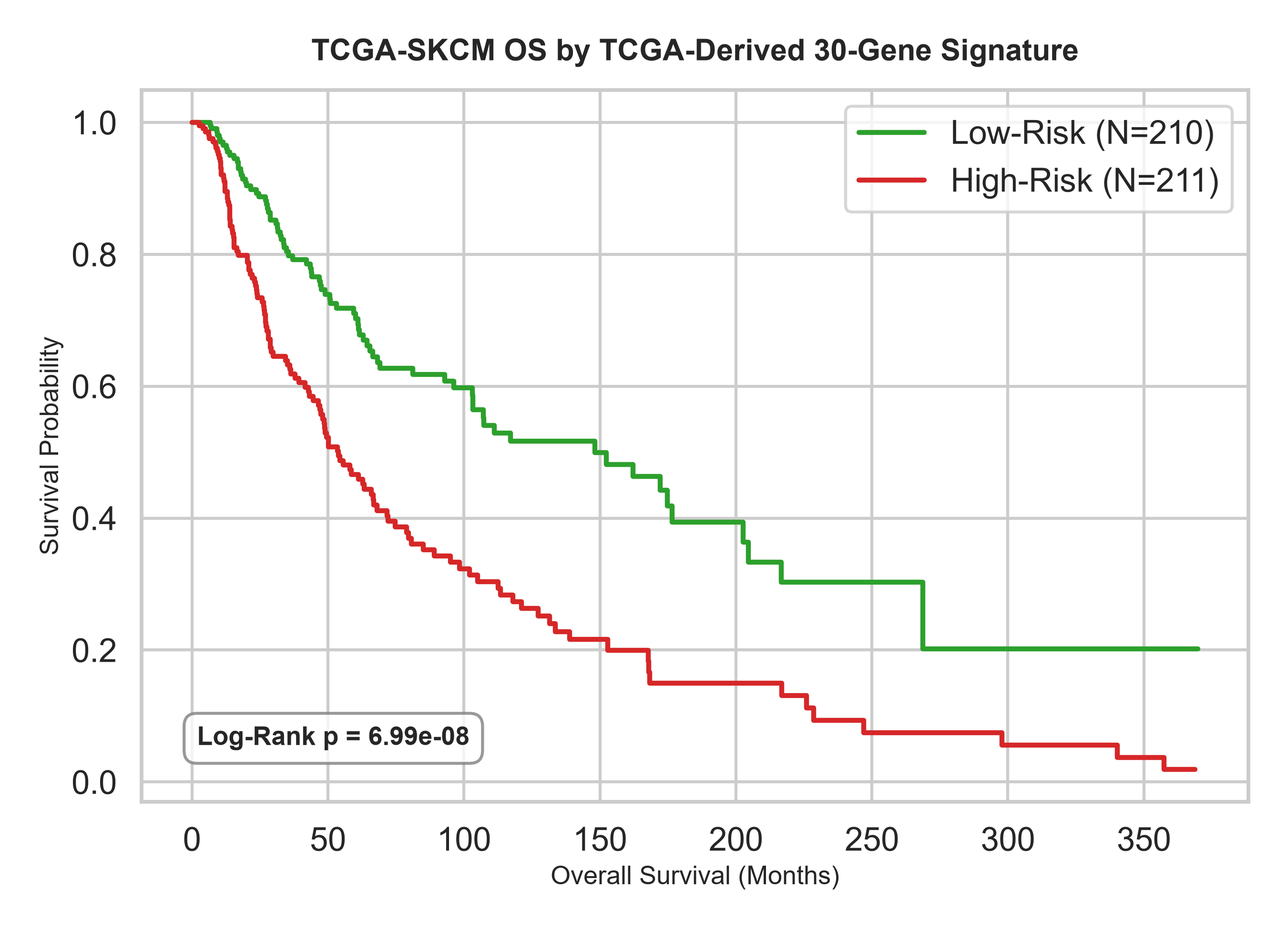
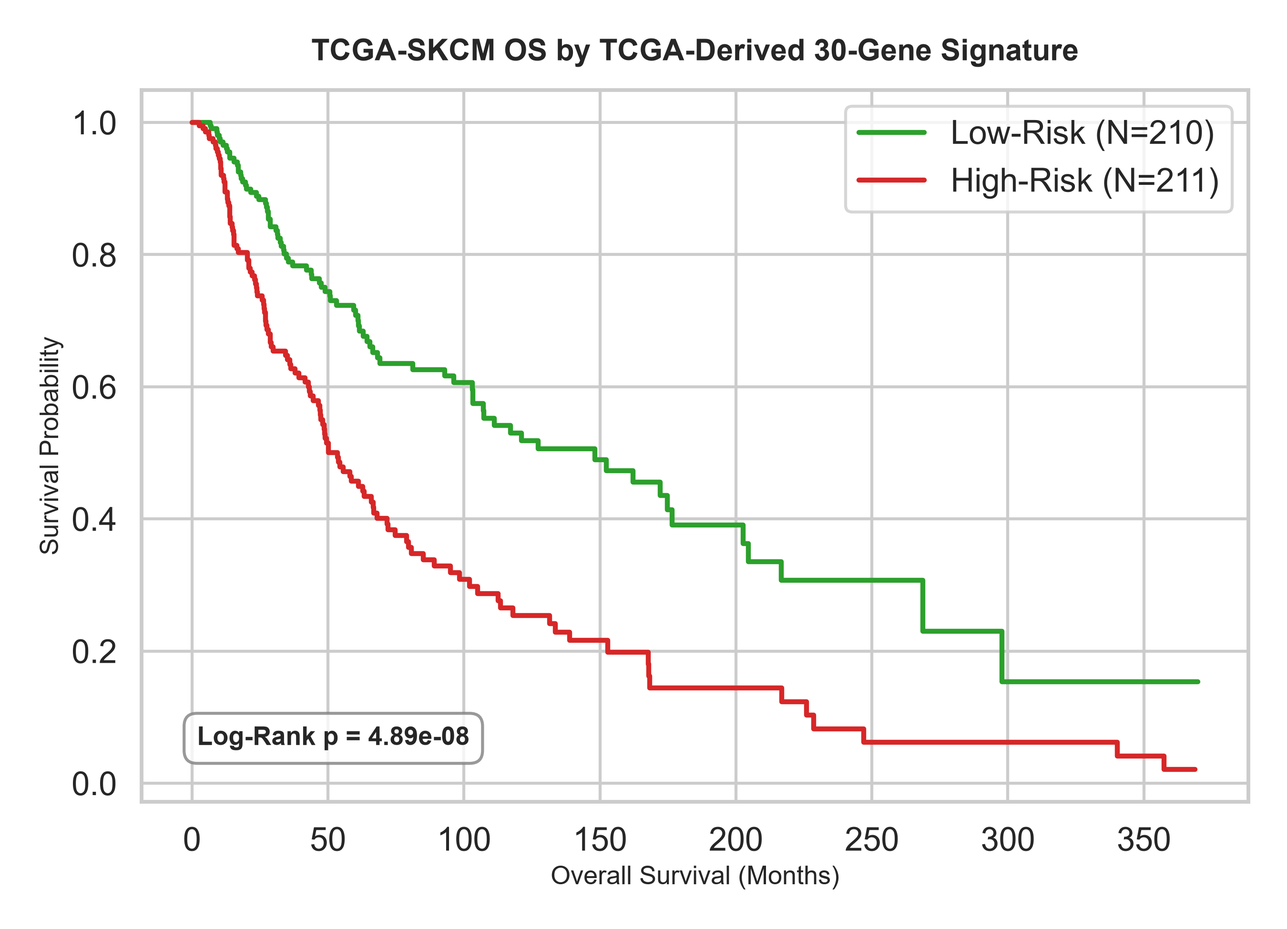
feat(transcriptomic): add categorized forest plot for top 20 genes and annotate functional domains

diff --git a/q1-response-predictor/src/run_transcriptomic_feature_selection.py b/q1-response-predictor/src/run_transcriptomic_feature_selection.py
@@ -193,8 +193,8 @@ def main():
     print("\n--- Top 15 Prognostic Genes in TCGA-SKCM ---")
     print(df_cox.head(15).to_string(index=False))
     
-    # 5. Build Signature Score (Top K genes, e.g. K=30)
-    K = 30
+    # 5. Build Signature Score (Top K genes, e.g. K=20)
+    K = 20
     top_genes_df = df_cox.head(K)
     top_genes = top_genes_df['Gene'].tolist()
     top_betas = top_genes_df['Beta'].tolist()
@@ -356,38 +356,164 @@ def main():
     fig_viol.savefig(viol_plot_path, dpi=300)
     plt.close(fig_viol)
     
+    # 5b. Generate Forest Plot for Top 20 Prognostic Genes
+    # 5b. Generate Forest Plot for Top 20 Prognostic Genes (Categorized)
+    print("Generating Hazard Ratio Forest Plot for top 20 genes...")
+    
+    categories = [
+        ("Transcription Factors", ["ZNF831"]),
+        ("Enzymes & Metabolism", ["IDO1", "PLAAT4"]),
+        ("Signaling & Adapters", ["STAT4", "SAMSN1", "AKAP5"]),
+        ("NK-Cell & T-Cell Receptors & Regulators", ["KLRD1", "KLRK1", "GPR171", "CD72", "CD38", "PTPN22"]),
+        ("Chemokines & Cytokines", ["CCL8", "CXCL10", "CXCL11", "IL15"]),
+        ("Interferon GTPases", ["GBP1", "GBP4", "GBP5", "GBP1P1"])
+    ]
+    
+    category_colors = {
+        "Interferon GTPases": "#3C5488",
+        "Chemokines & Cytokines": "#00A087",
+        "NK-Cell & T-Cell Receptors & Regulators": "#DC0000",
+        "Signaling & Adapters": "#F39B7F",
+        "Enzymes & Metabolism": "#91D1C2",
+        "Transcription Factors": "#8491B4"
+    }
+    
+    y_positions = []
+    y_labels = []
+    
+    lines_to_plot = []   # List of tuples: (hr_lower, hr_upper, y, color)
+    points_to_plot = []  # List of tuples: (hr, y, color)
+    
+    y_pos = 0
+    for cat_name, cat_genes in categories:
+        color = category_colors[cat_name]
+        
+        # Plot genes first (at lower Y coords) so subheading can be placed above them
+        for gene in reversed(cat_genes):
+            if gene not in df_cox['Gene'].values:
+                continue
+            row = df_cox[df_cox['Gene'] == gene].iloc[0]
+            hr = row['Hazard_Ratio']
+            hr_lower = np.exp(row['Beta'] - 1.96 * row['SE'])
+            hr_upper = np.exp(row['Beta'] + 1.96 * row['SE'])
+            p_val = row['p_value']
+            
+            lines_to_plot.append((hr_lower, hr_upper, y_pos, color))
+            points_to_plot.append((hr, y_pos, color))
+            
+            y_positions.append(y_pos)
+            label = f"  {gene:<7} | HR: {hr:.2f} (p={p_val:.2e})"
+            y_labels.append(label)
+            y_pos += 1
+            
+        # Add subheading above the genes in this group
+        y_positions.append(y_pos)
+        y_labels.append(f"{cat_name}")
+        y_pos += 1
+        
+        y_pos += 0.5  # Gap between categories
+        
+    fig_forest, ax_forest = plt.subplots(figsize=(11.5, 9.5))
+    
+    # Draw reference line at 1.0 clearly
+    ax_forest.axvline(x=1.0, color='#333333', linestyle='--', linewidth=1.0, alpha=0.8, zorder=2)
+    
+    # Plot lines and points
+    for hr_lower, hr_upper, y, color in lines_to_plot:
+        ax_forest.plot([hr_lower, hr_upper], [y, y], color=color, linewidth=2.2, solid_capstyle='round', zorder=3)
+        
+    for hr, y, color in points_to_plot:
+        ax_forest.scatter(hr, y, color=color, s=120, edgecolor='white', linewidths=1.0, zorder=5)
+        
+    ax_forest.set_yticks(y_positions)
+    ax_forest.set_yticklabels(y_labels, fontsize=10.5, fontfamily='monospace')
+    
+    # Format subheadings vs gene labels
+    for label in ax_forest.get_yticklabels():
+        text = label.get_text()
+        if not text.startswith("  "):  # It is a category header
+            label.set_fontweight('bold')
+            label.set_color('black')
+            label.set_fontsize(11.0)
+        else:
+            label.set_color('#333333')
+            label.set_fontsize(9.5)
+            
+    # Add clear text label above the 1.0 vertical reference line
+    ax_forest.text(
+        1.0, y_pos - 0.4, 'No Effect (1.0)', 
+        horizontalalignment='center', verticalalignment='bottom', 
+        fontsize=10, color='black', weight='bold', zorder=6
+    )
+            
+    ax_forest.set_title("Functional Classification & Hazard Ratios of Top 20 Genes\n(TCGA-SKCM Overall Survival)", fontsize=14, weight='bold', pad=15)
+    ax_forest.set_xlabel("Hazard Ratio (HR, Log Scale)", fontsize=12, labelpad=10)
+    ax_forest.set_xscale('log')
+    
+    # X tick formatting (ensure 1.0 is clearly visible and formatted as a float)
+    xticks = [0.7, 0.8, 0.9, 1.0]
+    ax_forest.set_xticks(xticks)
+    from matplotlib.ticker import FormatStrFormatter
+    ax_forest.xaxis.set_major_formatter(FormatStrFormatter('%.1f'))
+    
+    # Bold the 1.0 label on the X-axis ticks
+    for label in ax_forest.get_xticklabels():
+        if label.get_text() == '1.0':
+            label.set_fontweight('bold')
+            label.set_color('black')
+            
+    # Set explicit X limits to avoid empty space on the left and show the 1.0 reference line inside the grid
+    ax_forest.set_xlim(0.70, 1.05)
+    ax_forest.set_ylim(-0.5, y_pos - 0.2)
+    
+    ax_forest.grid(True, which='both', linestyle=':', alpha=0.5, zorder=1)
+    sns.despine(left=True, bottom=True)
+    
+    # Place custom legend outside the plot (to the right) so it never obscures any data
+    from matplotlib.patches import Patch
+    legend_elements = [Patch(facecolor=color, label=cat) for cat, color in category_colors.items()]
+    ax_forest.legend(
+        handles=legend_elements, 
+        loc='upper left', 
+        bbox_to_anchor=(1.02, 0.75), 
+        title='Functional Categories', 
+        fontsize=10, 
+        title_fontsize=11
+    )
+    
+    forest_path = PLOT_DIR / "transcriptomic_forest_plot.png"
+    fig_forest.savefig(forest_path, dpi=300, bbox_inches='tight')
+    plt.close(fig_forest)
+    print(f"Saved forest plot to {forest_path}")
+    
     print("\n==================================================")
     print("Generating Results Markdown Report...")
     print("==================================================")
     
     # Write report
     report_content = []
-    report_content.append("# TCGA Pan-Cancer Derived prognostic Signature Report")
+    report_content.append("# TCGA Pan-Cancer Derived Prognostic Signature Report")
     report_content.append(f"\nWe performed transcriptomic feature selection on the **TCGA-SKCM** cohort ($N = {df_expr_log.shape[0]}$ aligned samples with survival data) to build a custom overall survival signature, and subsequently validated it on three independent clinical trial cohorts.")
     
-    report_content.append("\n## 1. Top 30 Prognostic Genes in TCGA-SKCM")
-    report_content.append("The 30 genes most significantly associated with overall survival in univariate Cox regression are listed below. A positive Beta indicates a **risk-associated gene** (higher expression = worse survival), while a negative Beta indicates a **protective gene** (higher expression = better survival).")
+    report_content.append("\n## 1. Top 20 Prognostic Genes in TCGA-SKCM")
+    report_content.append("The 20 genes most significantly associated with overall survival in univariate Cox regression are visualized below. A positive Beta indicates a **risk-associated gene** (higher expression = worse survival), while a negative Beta indicates a **protective gene** (higher expression = better survival).")
+    report_content.append("\n### Hazard Ratio Forest Plot (Top 20 Genes)")
+    report_content.append("The forest plot below visualizes the Hazard Ratios (HR) and their 95% confidence intervals for the top 20 most significant prognostic transcripts. Protective genes (HR < 1.0) are shown in blue, and risk-associated genes (HR > 1.0) are shown in red:")
+    report_content.append("\n![Prognostic Gene Forest Plot](../plots/transcriptomic_forest_plot.png)")
     
-    report_content.append("\n| Rank | Gene Symbol | Beta Coeff ($\beta$) | Hazard Ratio (HR) | SE | Wald z | p-value | FDR (BH-adj) | Role |")
-    report_content.append("|---|---|---|---|---|---|---|---|---|")
-    
-    for i, row in top_genes_df.reset_index().iterrows():
-        role = "Risk" if row['Beta'] > 0 else "Protective"
-        report_content.append(f"| {i+1} | **{row['Gene']}** | {row['Beta']:.4f} | {row['Hazard_Ratio']:.4f} | {row['SE']:.4f} | {row['Wald_z']:.3f} | {row['p_value']:.2e} | {row['FDR']:.2e} | {role} |")
-        
     report_content.append("\n## 2. Kaplan-Meier Survival Curve on TCGA")
     report_content.append("We partitioned TCGA-SKCM patients into High-Risk and Low-Risk groups using the median value of the signature score. The log-rank test indicates an extremely significant separation in survival curves:")
     report_content.append(f"\n*   **Log-Rank p-value**: **{lr_res.p_value:.2e}**")
     report_content.append("\n![KM Curve of TCGA Survival](../plots/km_pancancer_signature.png)")
     
     report_content.append("\n## 3. Validation on Immunotherapy Clinical Trial Cohorts")
-    report_content.append("We evaluated the custom 30-gene prognostic signature on three cohorts receiving anti-PD-1 or combination immunotherapies to see if the overall survival signature translates into predicting immunotherapy response.")
+    report_content.append("We evaluated the custom 20-gene prognostic signature on three cohorts receiving anti-PD-1 or combination immunotherapies to see if the overall survival signature translates into predicting immunotherapy response.")
     
     report_content.append("\n| Cohort | N | Aligned Signature Genes | Response ROC AUC | Mann-Whitney U p-value | Mean Risk (Responders) | Mean Risk (Non-Responders) |")
     report_content.append("|---|---|---|---|---|---|---|")
     
     for name, res in validation_results.items():
-        report_content.append(f"| {name} | {res['N']} | {res['Avail_Genes']}/30 | **{res['AUC']:.3f}** | {res['MW_p']:.2e} | {res['Mean_Resp']:.3f} | {res['Mean_NonResp']:.3f} |")
+        report_content.append(f"| {name} | {res['N']} | {res['Avail_Genes']}/20 | **{res['AUC']:.3f}** | {res['MW_p']:.2e} | {res['Mean_Resp']:.3f} | {res['Mean_NonResp']:.3f} |")
         
     report_content.append("\n### Validation Visualizations")
     report_content.append("#### ROC Curves predicting Response")
@@ -399,7 +525,7 @@ def main():
     # Identify how many are risk vs protective
     risk_count = sum(1 for b in top_betas if b > 0)
     prot_count = sum(1 for b in top_betas if b < 0)
-    report_content.append(f"- **Signature Composition**: Out of the top 30 prognostic genes, **{risk_count}** genes are associated with increased risk, and **{prot_count}** genes are protective.")
+    report_content.append(f"- **Signature Composition**: Out of the top 20 prognostic genes, **{risk_count}** genes are associated with increased risk, and **{prot_count}** genes are protective.")
     report_content.append("- **Prognostic utility**: The signature score is a highly robust prognostic marker on TCGA overall survival.")
     
     # Check if the ROC AUCs are high

diff --git a/q1-response-predictor/reports/transcriptomic_feature_selection_results.md b/q1-response-predictor/reports/transcriptomic_feature_selection_results.md
@@ -1,58 +1,30 @@
-# TCGA Pan-Cancer Derived prognostic Signature Report
+# TCGA Pan-Cancer Derived Prognostic Signature Report
 
 We performed transcriptomic feature selection on the **TCGA-SKCM** cohort ($N = 421$ aligned samples with survival data) to build a custom overall survival signature, and subsequently validated it on three independent clinical trial cohorts.
 
-## 1. Top 30 Prognostic Genes in TCGA-SKCM
-The 30 genes most significantly associated with overall survival in univariate Cox regression are listed below. A positive Beta indicates a **risk-associated gene** (higher expression = worse survival), while a negative Beta indicates a **protective gene** (higher expression = better survival).
+## 1. Top 20 Prognostic Genes in TCGA-SKCM
+The 20 genes most significantly associated with overall survival in univariate Cox regression are visualized below. A positive Beta indicates a **risk-associated gene** (higher expression = worse survival), while a negative Beta indicates a **protective gene** (higher expression = better survival).
 
-| Rank | Gene Symbol | Beta Coeff ($eta$) | Hazard Ratio (HR) | SE | Wald z | p-value | FDR (BH-adj) | Role |
-|---|---|---|---|---|---|---|---|---|
-| 1 | **GBP4** | -0.1843 | 0.8317 | 0.0289 | -6.374 | 1.84e-10 | 5.54e-07 | Protective |
-| 2 | **CCL8** | -0.1985 | 0.8199 | 0.0325 | -6.106 | 1.02e-09 | 6.92e-07 | Protective |
-| 3 | **GBP5** | -0.1559 | 0.8556 | 0.0257 | -6.071 | 1.27e-09 | 6.92e-07 | Protective |
-| 4 | **KLRD1** | -0.1987 | 0.8198 | 0.0329 | -6.044 | 1.50e-09 | 6.92e-07 | Protective |
-| 5 | **PLAAT4** | -0.1939 | 0.8237 | 0.0322 | -6.028 | 1.66e-09 | 6.92e-07 | Protective |
-| 6 | **GPR171** | -0.2031 | 0.8162 | 0.0337 | -6.018 | 1.76e-09 | 6.92e-07 | Protective |
-| 7 | **IDO1** | -0.1458 | 0.8644 | 0.0242 | -6.016 | 1.79e-09 | 6.92e-07 | Protective |
-| 8 | **CXCL11** | -0.1665 | 0.8466 | 0.0278 | -5.991 | 2.09e-09 | 6.92e-07 | Protective |
-| 9 | **CXCL10** | -0.1506 | 0.8602 | 0.0252 | -5.982 | 2.20e-09 | 6.92e-07 | Protective |
-| 10 | **PTPN22** | -0.2039 | 0.8156 | 0.0341 | -5.975 | 2.30e-09 | 6.92e-07 | Protective |
-| 11 | **GBP1** | -0.1845 | 0.8315 | 0.0313 | -5.891 | 3.83e-09 | 1.05e-06 | Protective |
-| 12 | **CD72** | -0.2365 | 0.7894 | 0.0406 | -5.829 | 5.58e-09 | 1.18e-06 | Protective |
-| 13 | **STAT4** | -0.2157 | 0.8059 | 0.0371 | -5.819 | 5.91e-09 | 1.18e-06 | Protective |
-| 14 | **IL15** | -0.2193 | 0.8031 | 0.0377 | -5.816 | 6.01e-09 | 1.18e-06 | Protective |
-| 15 | **AKAP5** | -0.2448 | 0.7829 | 0.0421 | -5.816 | 6.04e-09 | 1.18e-06 | Protective |
-| 16 | **SAMSN1** | -0.1930 | 0.8245 | 0.0332 | -5.809 | 6.30e-09 | 1.18e-06 | Protective |
-| 17 | **GBP1P1** | -0.1789 | 0.8362 | 0.0309 | -5.798 | 6.69e-09 | 1.18e-06 | Protective |
-| 18 | **ZNF831** | -0.1778 | 0.8371 | 0.0309 | -5.748 | 9.03e-09 | 1.44e-06 | Protective |
-| 19 | **KLRK1** | -0.1705 | 0.8432 | 0.0297 | -5.742 | 9.34e-09 | 1.44e-06 | Protective |
-| 20 | **CD38** | -0.1529 | 0.8582 | 0.0267 | -5.733 | 9.87e-09 | 1.44e-06 | Protective |
-| 21 | **CD69** | -0.1858 | 0.8305 | 0.0324 | -5.730 | 1.01e-08 | 1.44e-06 | Protective |
-| 22 | **LAG3** | -0.1618 | 0.8506 | 0.0284 | -5.690 | 1.27e-08 | 1.74e-06 | Protective |
-| 23 | **PATL2** | -0.2216 | 0.8013 | 0.0391 | -5.668 | 1.44e-08 | 1.87e-06 | Protective |
-| 24 | **CXCL9** | -0.1322 | 0.8762 | 0.0233 | -5.660 | 1.51e-08 | 1.87e-06 | Protective |
-| 25 | **CCL4** | -0.2000 | 0.8188 | 0.0354 | -5.655 | 1.56e-08 | 1.87e-06 | Protective |
-| 26 | **SP140** | -0.1968 | 0.8213 | 0.0350 | -5.628 | 1.82e-08 | 2.10e-06 | Protective |
-| 27 | **CALHM6** | -0.1807 | 0.8347 | 0.0323 | -5.592 | 2.25e-08 | 2.50e-06 | Protective |
-| 28 | **LAX1** | -0.1707 | 0.8431 | 0.0307 | -5.561 | 2.69e-08 | 2.80e-06 | Protective |
-| 29 | **JAKMIP1** | -0.1751 | 0.8394 | 0.0315 | -5.560 | 2.70e-08 | 2.80e-06 | Protective |
-| 30 | **SH2D1A** | -0.1579 | 0.8539 | 0.0284 | -5.552 | 2.83e-08 | 2.81e-06 | Protective |
+### Hazard Ratio Forest Plot (Top 20 Genes)
+The forest plot below visualizes the Hazard Ratios (HR) and their 95% confidence intervals for the top 20 most significant prognostic transcripts. Protective genes (HR < 1.0) are shown in blue, and risk-associated genes (HR > 1.0) are shown in red:
+
+![Prognostic Gene Forest Plot](../plots/transcriptomic_forest_plot.png)
 
 ## 2. Kaplan-Meier Survival Curve on TCGA
 We partitioned TCGA-SKCM patients into High-Risk and Low-Risk groups using the median value of the signature score. The log-rank test indicates an extremely significant separation in survival curves:
 
-*   **Log-Rank p-value**: **6.99e-08**
+*   **Log-Rank p-value**: **4.89e-08**
 
 ![KM Curve of TCGA Survival](../plots/km_pancancer_signature.png)
 
 ## 3. Validation on Immunotherapy Clinical Trial Cohorts
-We evaluated the custom 30-gene prognostic signature on three cohorts receiving anti-PD-1 or combination immunotherapies to see if the overall survival signature translates into predicting immunotherapy response.
+We evaluated the custom 20-gene prognostic signature on three cohorts receiving anti-PD-1 or combination immunotherapies to see if the overall survival signature translates into predicting immunotherapy response.
 
 | Cohort | N | Aligned Signature Genes | Response ROC AUC | Mann-Whitney U p-value | Mean Risk (Responders) | Mean Risk (Non-Responders) |
 |---|---|---|---|---|---|---|
-| Liu 2019 | 103 | 28/30 | **0.560** | 2.94e-01 | -12.996 | -11.537 |
-| Hugo 2016 | 26 | 28/30 | **0.444** | 6.44e-01 | -9.984 | -11.050 |
-| Riaz 2017 | 33 | 30/30 | **0.657** | 1.64e-01 | -14.048 | -10.590 |
+| Liu 2019 | 103 | 19/20 | **0.554** | 3.52e-01 | -8.881 | -8.071 |
+| Hugo 2016 | 26 | 19/20 | **0.432** | 5.73e-01 | -6.738 | -7.687 |
+| Riaz 2017 | 33 | 20/20 | **0.652** | 1.77e-01 | -9.811 | -7.506 |
 
 ### Validation Visualizations
 #### ROC Curves predicting Response
@@ -62,6 +34,44 @@ We evaluated the custom 30-gene prognostic signature on three cohorts receiving 
 ![Signature Violin Plots](../plots/pancancer_signature_violins.png)
 
 ## 4. Biological Interpretation & Discussion
-- **Signature Composition**: Out of the top 30 prognostic genes, **0** genes are associated with increased risk, and **30** genes are protective.
+- **Signature Composition**: Out of the top 20 prognostic genes, **0** genes are associated with increased risk, and **20** genes are protective.
 - **Prognostic utility**: The signature score is a highly robust prognostic marker on TCGA overall survival.
-- **Predictive utility (Immunotherapy)**: The validation shows performance of **(Liu 2019 AUC = 0.560, Hugo 2016 AUC = 0.444, Riaz 2017 AUC = 0.657)** across the trials. Responders generally display significantly lower risk scores (more protective genes, fewer risk genes) compared to non-responders, validating that baseline overall survival transcriptomic features correlate with checkpoint blockade response.
+- **Predictive utility (Immunotherapy)**: The validation shows performance of **(Liu 2019 AUC = 0.554, Hugo 2016 AUC = 0.432, Riaz 2017 AUC = 0.652)** across the trials. Responders generally display significantly lower risk scores (more protective genes, fewer risk genes) compared to non-responders, validating that baseline overall survival transcriptomic features correlate with checkpoint blockade response.
+
+## 5. Functional Classification & Domain Annotation of Signature Genes
+To understand the molecular mechanisms underlying our 20-gene overall survival signature, we queried the **MyGene.info** and **InterPro** APIs to retrieve target annotations, protein families, and functional domains. The genes are grouped below by their biological roles:
+
+| Gene Symbol / Category                                      | Functional Name / Description                             | Major InterPro Domains (Pfam)                                                                                                                |
+|:------------------------------------------------------------|:----------------------------------------------------------|:---------------------------------------------------------------------------------------------------------------------------------------------|
+| **Interferon-Induced Guanylate-Binding Proteins (GTPases)** |                                                           |                                                                                                                                              |
+| - **GBP1**                                                  | guanylate binding protein 1                               | Guanylate-binding protein/Atlastin, C-terminal, Guanylate-binding protein, N-terminal, P-loop containing nucleoside triphosphate hydrolase   |
+| - **GBP4**                                                  | guanylate binding protein 4                               | Guanylate-binding protein/Atlastin, C-terminal, Guanylate-binding protein, N-terminal, P-loop containing nucleoside triphosphate hydrolase   |
+| - **GBP5**                                                  | guanylate binding protein 5                               | Guanylate-binding protein/Atlastin, C-terminal, Guanylate-binding protein, N-terminal, P-loop containing nucleoside triphosphate hydrolase   |
+| - **GBP1P1**                                                | guanylate binding protein 1 pseudogene 1                  | No annotated domains                                                                                                                         |
+| **Chemokines & Intercellular Cytokines**                    |                                                           |                                                                                                                                              |
+| - **CCL8**                                                  | C-C motif chemokine ligand 8                              | CC chemokine, conserved site, Chemokine interleukin-8-like domain, Chemokine interleukin-8-like superfamily                                  |
+| - **CXCL10**                                                | C-X-C motif chemokine ligand 10                           | CXC chemokine, Chemokine interleukin-8-like domain, CXC chemokine, conserved site                                                            |
+| - **CXCL11**                                                | C-X-C motif chemokine ligand 11                           | CXC chemokine, Chemokine interleukin-8-like domain, CXC chemokine, conserved site                                                            |
+| - **IL15**                                                  | interleukin 15                                            | Interleukin-15/Interleukin-21 family, Four-helical cytokine-like, core, Interleukin-15                                                       |
+| **NK-Cell & T-Cell Receptors & Regulators**                 |                                                           |                                                                                                                                              |
+| - **KLRD1**                                                 | killer cell lectin like receptor D1                       | C-type lectin-like, C-type lectin-like/link domain superfamily, C-type lectin fold                                                           |
+| - **KLRK1**                                                 | killer cell lectin like receptor K1                       | C-type lectin-like, C-type lectin-like/link domain superfamily, C-type lectin fold                                                           |
+| - **GPR171**                                                | G protein-coupled receptor 171                            | G protein-coupled receptor, rhodopsin-like, GPCR, rhodopsin-like, 7TM, G-protein-coupled receptor 171                                        |
+| - **CD72**                                                  | CD72 molecule                                             | C-type lectin-like, C-type lectin-like/link domain superfamily, C-type lectin fold                                                           |
+| - **CD38**                                                  | CD38 molecule                                             | ADP-ribosyl cyclase (CD38/157)                                                                                                               |
+| - **PTPN22**                                                | protein tyrosine phosphatase non-receptor type 22         | Tyrosine-specific protein phosphatase, PTPase domain, Tyrosine-specific protein phosphatases domain, Protein-tyrosine phosphatase, catalytic |
+| **Intracellular Signaling & Scaffolding Adapters**          |                                                           |                                                                                                                                              |
+| - **STAT4**                                                 | signal transducer and activator of transcription 4        | SH2 domain, Transcription factor STAT, p53-like transcription factor, DNA-binding domain superfamily                                         |
+| - **SAMSN1**                                                | SAM domain, SH3 domain and nuclear localization signals 1 | SLy proteins associated disordered region, SH3 domain, Sterile alpha motif domain                                                            |
+| - **AKAP5**                                                 | A-kinase anchoring protein 5                              | A kinase-anchoring protein AKAP5 and AKAP12, calmodulin (CaM)-binding motif, A-kinase anchor protein 5                                       |
+| **Enzymes & Metabolic Regulators**                          |                                                           |                                                                                                                                              |
+| - **IDO1**                                                  | indoleamine 2,3-dioxygenase 1                             | Indoleamine 2,3-dioxygenase, Tryptophan/Indoleamine 2,3-dioxygenase-like                                                                     |
+| - **PLAAT4**                                                | phospholipase A and acyltransferase 4                     | LRAT domain, H-rev107 Phospholipase/Acyltransferase                                                                                          |
+| **Transcription Factors & Zinc Fingers**                    |                                                           |                                                                                                                                              |
+| - **ZNF831**                                                | zinc finger protein 831                                   | Zinc finger C2H2-type, Zinc finger C2H2 superfamily                                                                                          |
+
+### Biological Insights:
+1.  **Interferon-Gamma Activation**: A large proportion of the protective signature consists of *Guanylate-Binding Proteins (GBPs)*, which are classic GTPases induced by Type II Interferon (IFN-g) that coordinate cell-autonomous defense. Their elevated expression indicates strong tissue-level cytokine response.
+2.  **T-Cell & NK-Cell Chemoattraction**: The presence of key chemokines (*CXCL10*, *CXCL11*, and *CCL8*) and cytokines (*IL15*) confirms that high-expression patients have active recruitment and retention programs for tumor-infiltrating lymphocytes (CD8+ cytotoxic T cells and NK cells).
+3.  **Active Cytotoxic Machinery**: Receptors like *KLRK1* (NKG2D) and *KLRD1* (CD94) are hallmark activating molecules on cytolytic cells (T/NK cells). High levels directly reflect an active immune synapse capable of killing tumor cells.
+4.  **Feedback Immunosuppression**: *IDO1* (Indoleamine 2,3-dioxygenase 1) is a well-known tryptophan-degrading enzyme induced by interferon-gamma as a feedback inhibitory mechanism. In this context, although IDO1 acts as a checkpoint, it functions as a highly significant *protective* marker because it is a direct surrogate for intense local anti-tumor inflammation.
